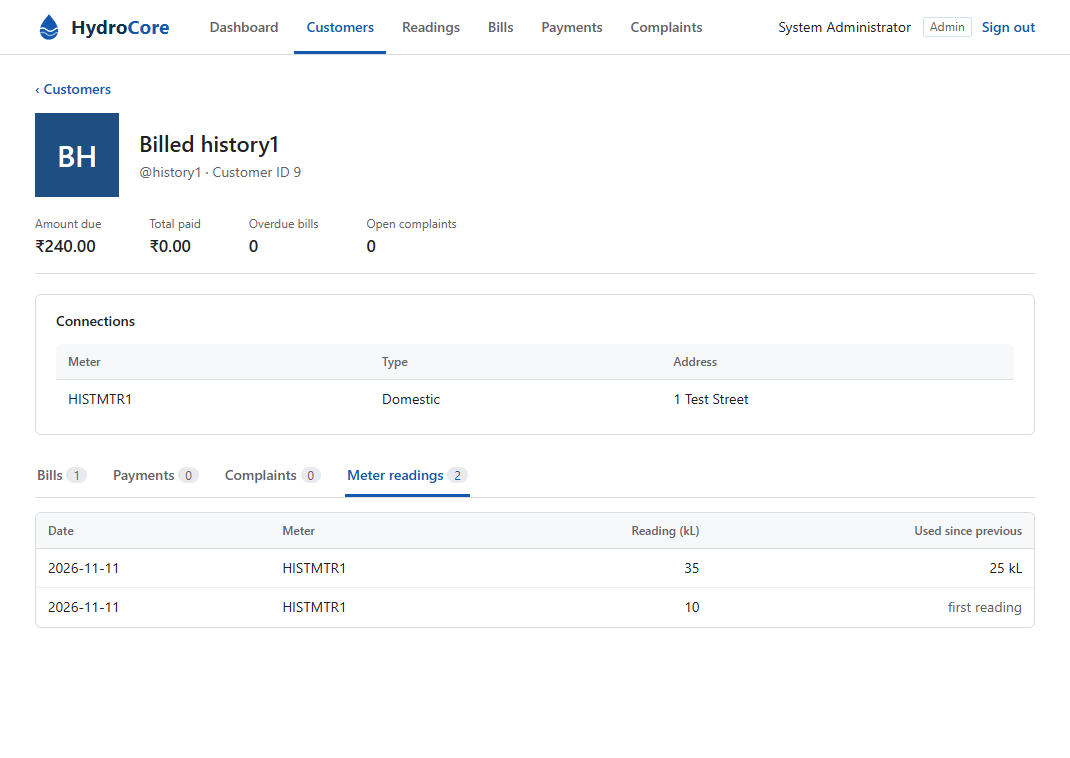
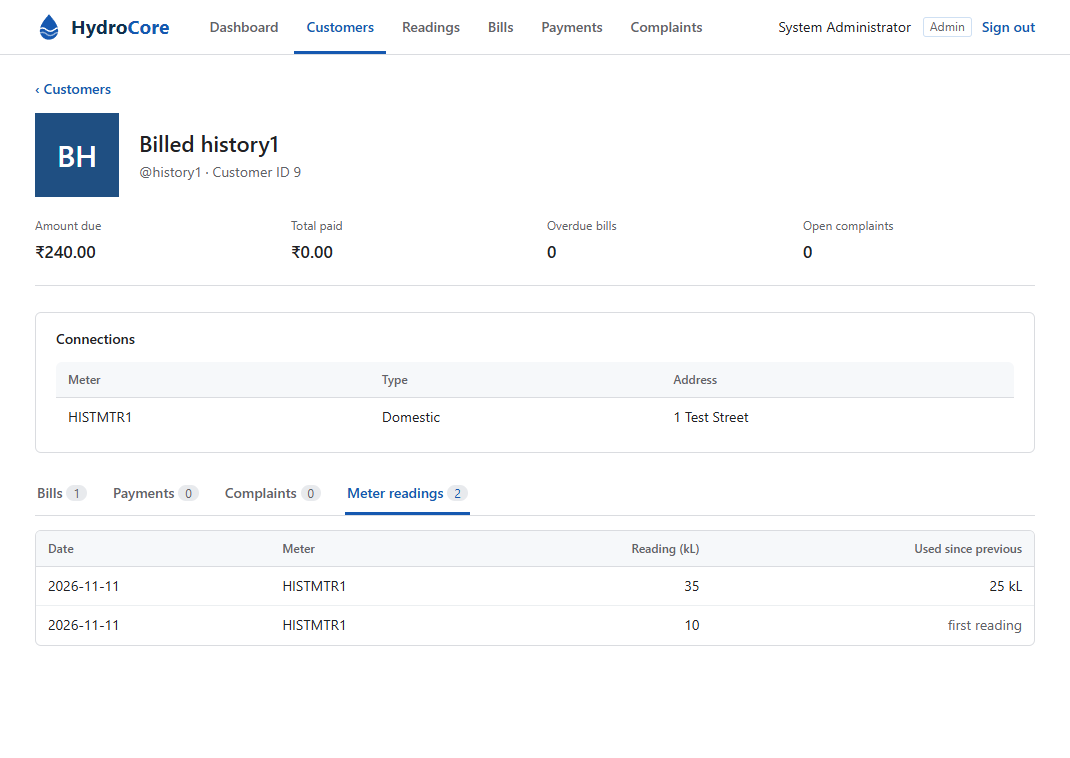
Space summary rows, filters and dashboard statement evenly; regenerate screenshots

diff --git a/app/static/style.css b/app/static/style.css
@@ -201,3 +201,11 @@ table.plain tr:last-child td { border-bottom: 0; }
 .facts div:last-child { border-bottom: 0; }
 .facts dt { color: var(--muted); }
 .facts dd { margin: 0; font-weight: 600; font-variant-numeric: tabular-nums; }
+
+/* ---------- even spacing ---------- */
+.summary { display: grid; grid-template-columns: repeat(auto-fit, minmax(150px, 1fr)); gap: 12px 24px; margin: 20px 0 26px; padding: 0 0 22px; }
+.summary .k { margin-bottom: 4px; }
+.toolbar { gap: 14px; margin: 18px 0 18px; }
+.statement { display: grid; grid-template-columns: 1fr 1fr; align-items: center; gap: 24px 64px; padding: 8px 0 26px; margin-bottom: 26px; }
+.facts { min-width: 0; }
+@media (max-width: 700px) { .statement { grid-template-columns: 1fr; } }
